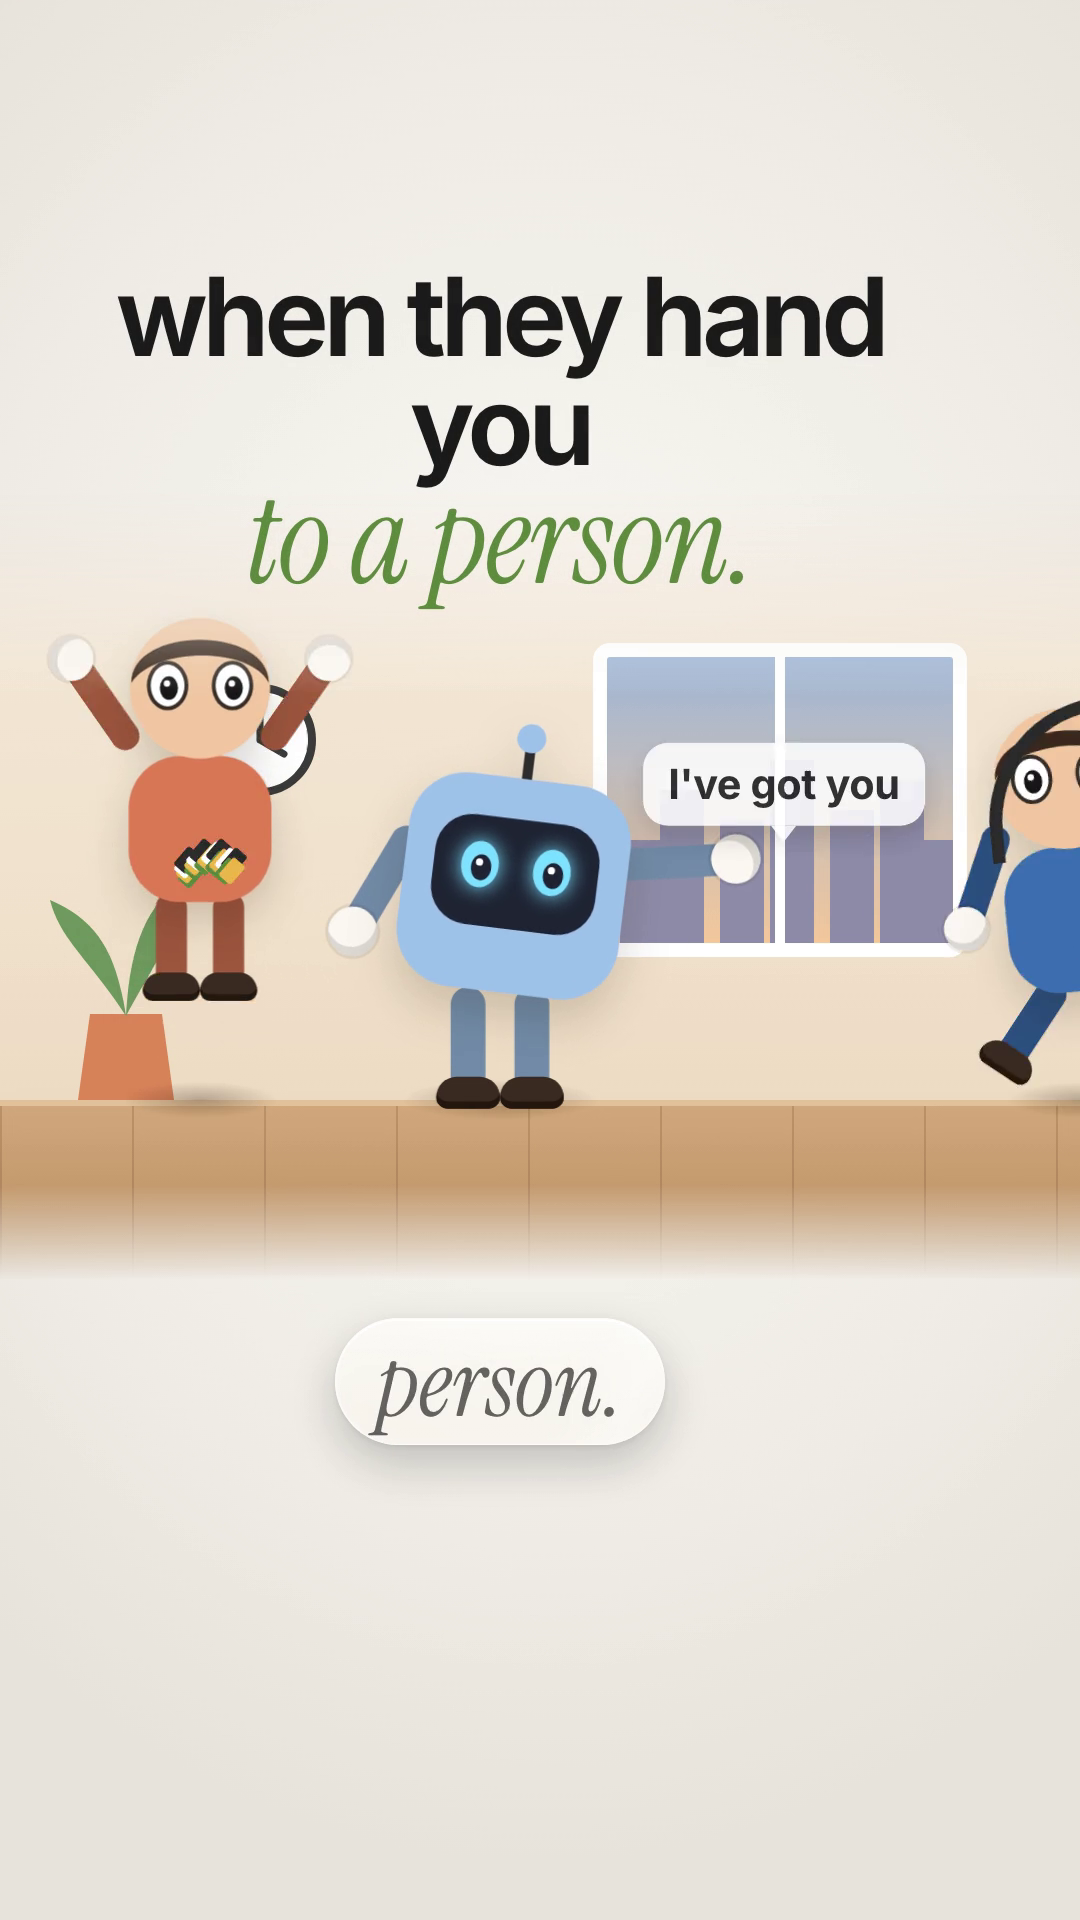
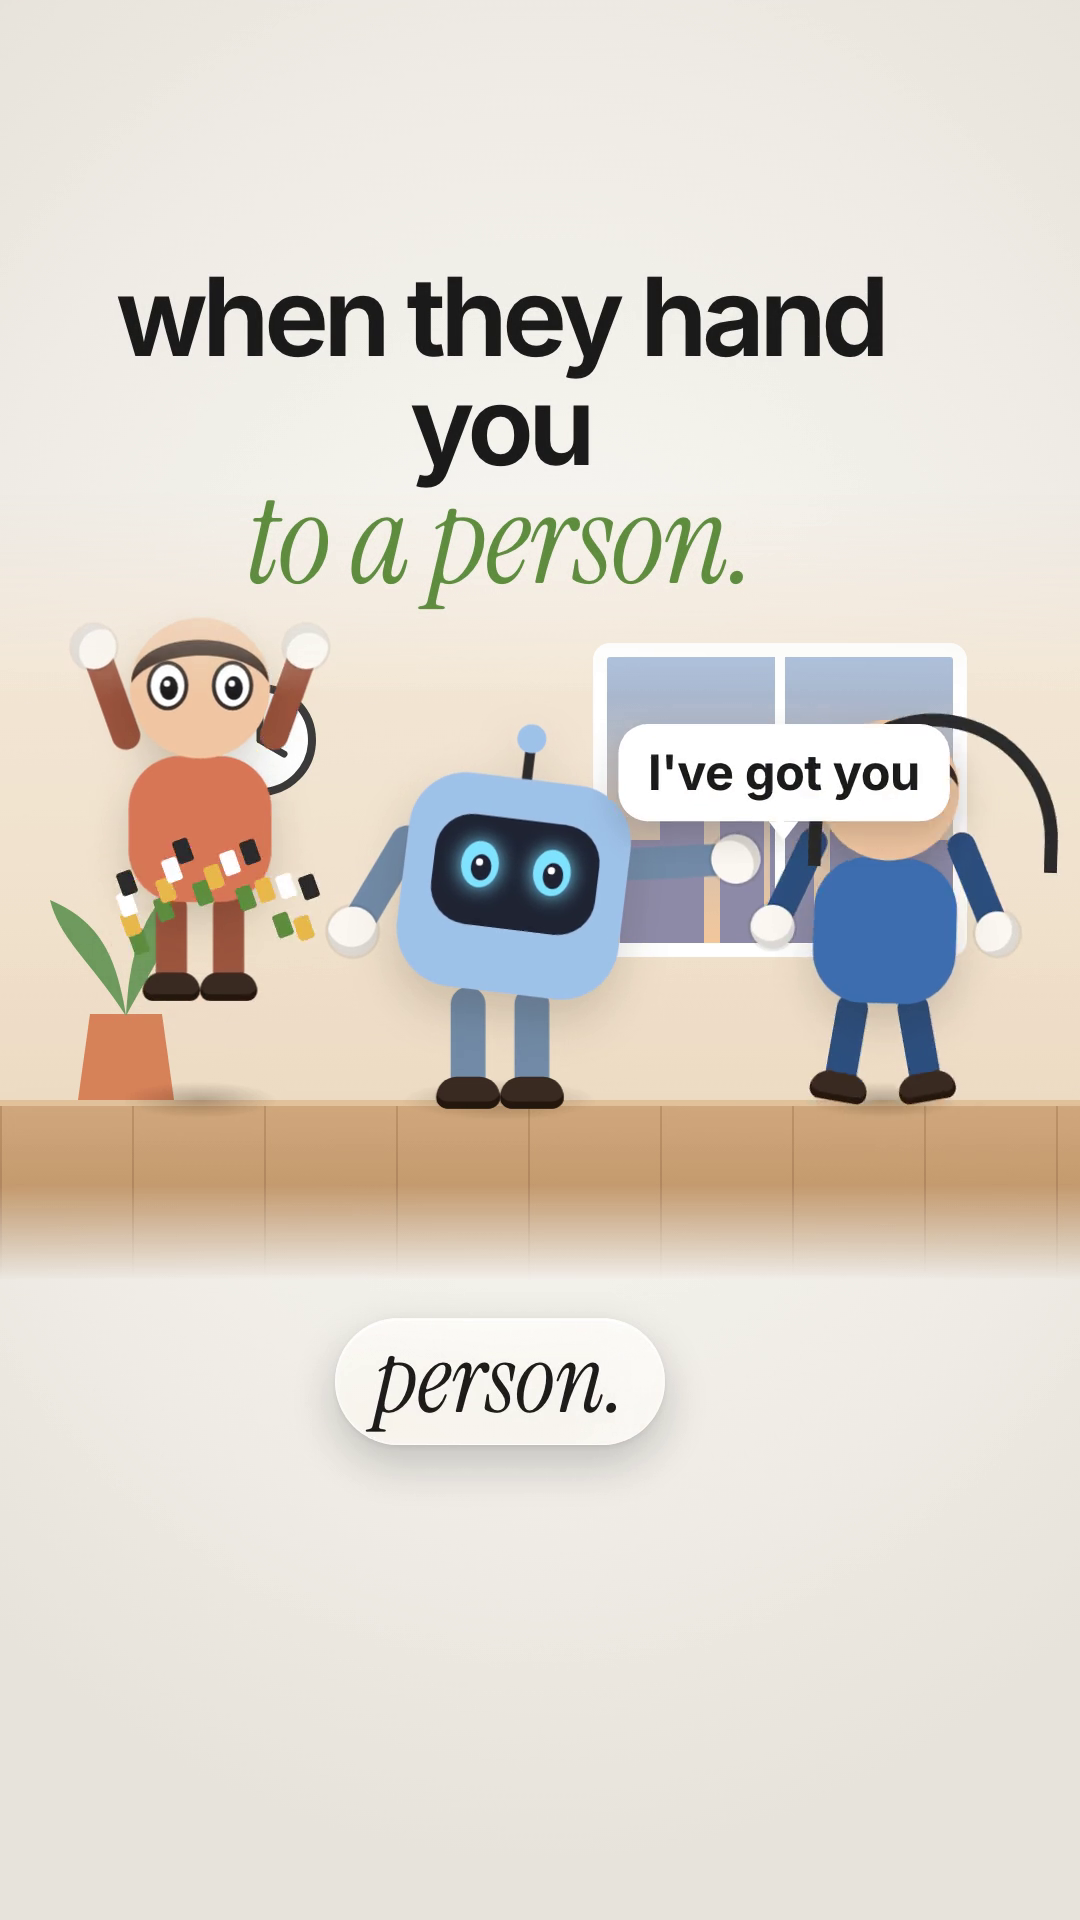
Today's list: reworked videos ready

diff --git a/content/POST-TODAY.md b/content/POST-TODAY.md
@@ -277,7 +277,7 @@ If you run a 3PL and want to find your first money leak, book 30 minutes with me
 #Logistics #3PL #Warehousing #SupplyChain #AI #Freight #Operations #Fulfillment #LogisticsTech #3PLbilling #Ecommerce #AIstrategy
 ```
 
-## 12. Company IG Halloween reel (re-rendering with % fix, ready ~18:15)
+## 12. Company IG Halloween reel (ready: % fix + upright worker)
 Folder: `content/2026-W44/ig-company-sat-1000-scariest-invoice` · media: video.mp4 · keyword: -
 
 ```
@@ -307,7 +307,7 @@ It's in our bio.
 ```
 
 
-## 13. @koredekola gamified "What if AI took over tomorrow?" (Day 1 to Year 1) **HOLD: being reworked (no face, visual hook)**
+## 13. @koredekola gamified "What if AI took over tomorrow?" (Day 1 to Year 1) (reworked: 3D hook, no face; ready)
 Folder: `content/2026-W46/ig-personal-mon-1230-what-if-ai-took-over` · media: video.mp4 · keyword: AI
 
 ```
@@ -332,7 +332,7 @@ The person who sets it up first will.
 #AI #AInews #futureofwork #ClaudeAI #tech
 ```
 
-## 14. @koredekola gamified "You wake up as CEO of Anthropic" ep 1 (comment A or B; count votes tomorrow for ep 2) **HOLD: being reworked (no face, visual hook)**
+## 14. @koredekola gamified "You wake up as CEO of Anthropic" ep 1 (comment A or B; count votes tomorrow for ep 2) (reworked: 3D hook, no face; ready)
 Folder: `content/2026-W46/ig-personal-thu-1230-you-decide-anthropic-ceo-ep1` · media: video.mp4 · keyword: -
 
 ```
@@ -380,7 +380,7 @@ Tell me below, and follow for part 2.
 #Nigeria #Naija #Afrobeats #Lagos #whatif
 ```
 
-## 16. @koredekola REALISTIC "Internet: off" (Hour 1 to Day 30, real sources; on-screen % fix re-rendering, ready ~18:35) **HOLD: being reworked (no face, visual hook)**
+## 16. @koredekola REALISTIC "Internet: off" (Hour 1 to Day 30, real sources; on-screen % fix re-rendering, ready ~18:35) (reworked: 3D hook, no face; ready)
 Folder: `content/2026-W46/ig-personal-tue-1230-what-if-internet-down-30-days` · media: video.mp4 · keyword: -
 
 ```
@@ -403,7 +403,7 @@ More than 99% of bits of data between continents run through cables on the sea f
 #whatif #internet #tech #technology #AI
 ```
 
-## 17. @koredekola gamified "What if every government left tomorrow?" **HOLD: being reworked (no face, visual hook)**
+## 17. @koredekola gamified "What if every government left tomorrow?" (reworked: 3D hook, no face; ready)
 Folder: `content/2026-W46/ig-personal-wed-1230-what-if-governments-left` · media: video.mp4 · keyword: AI
 
 ```
@@ -426,7 +426,7 @@ Every time.
 #AI #whatif #systems #futureofwork #tech
 ```
 
-## 18. @koredekola gamified "Every level of AI, where you get stuck" **HOLD: being reworked (no face, visual hook)**
+## 18. @koredekola gamified "Every level of AI, where you get stuck" (reworked: 3D hook, no face; ready)
 Folder: `content/2026-W46/ig-personal-sun-1100-every-level-of-ai` · media: video.mp4 · keyword: AI
 
 ```
@@ -472,7 +472,7 @@ Who wins this, Walmart or Amazon?
 #AI #AIagents #ecommerce #Walmart #technews
 ```
 
-## 20. @koredekola REALISTIC video "What if everyone became 10% Nigerian?" (ready) **HOLD: being reworked (no face, visual hook)**
+## 20. @koredekola REALISTIC video "What if everyone became 10% Nigerian?" (reworked: 3D globe hook, no face; full render ready ~00:10 Berlin)
 Folder: `content/2026-W46/ig-personal-sat-1500-what-if-10-nigerian-video` · media: video.mp4 · keyword: -
 
 ```
